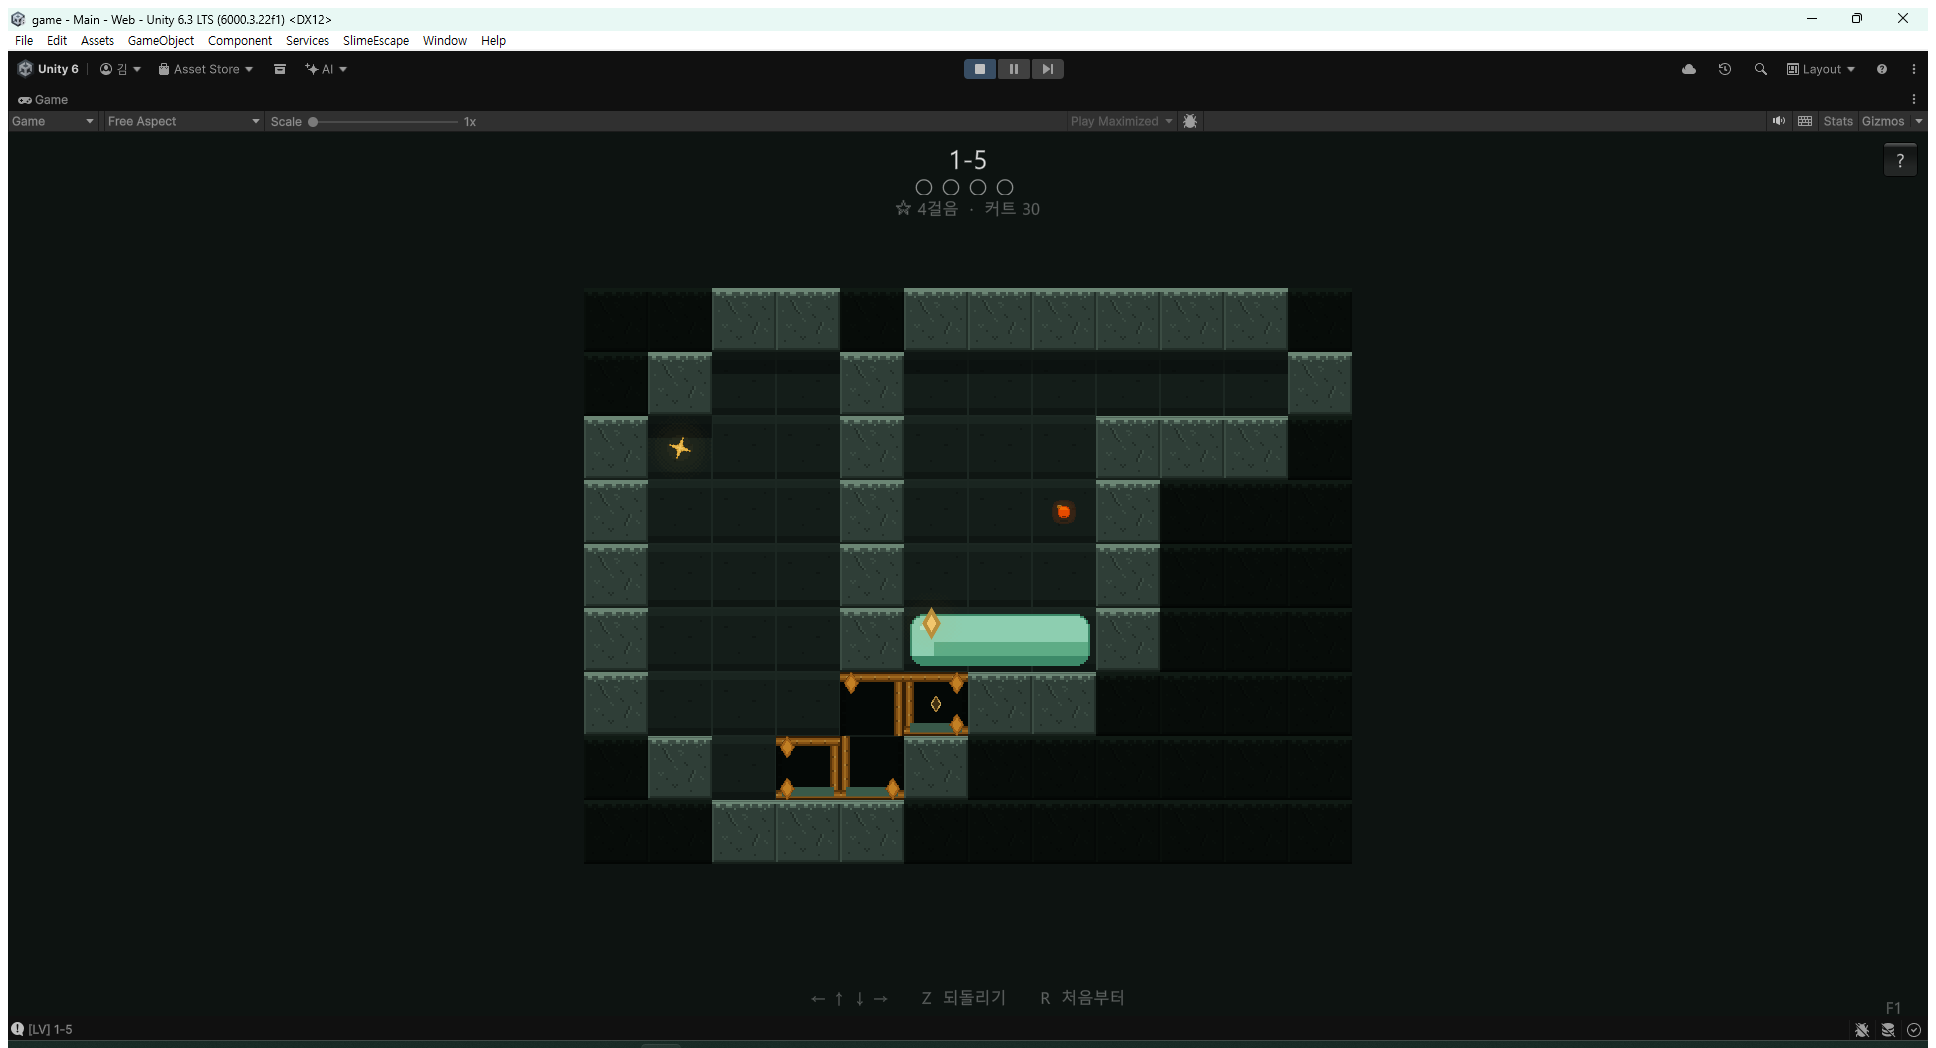
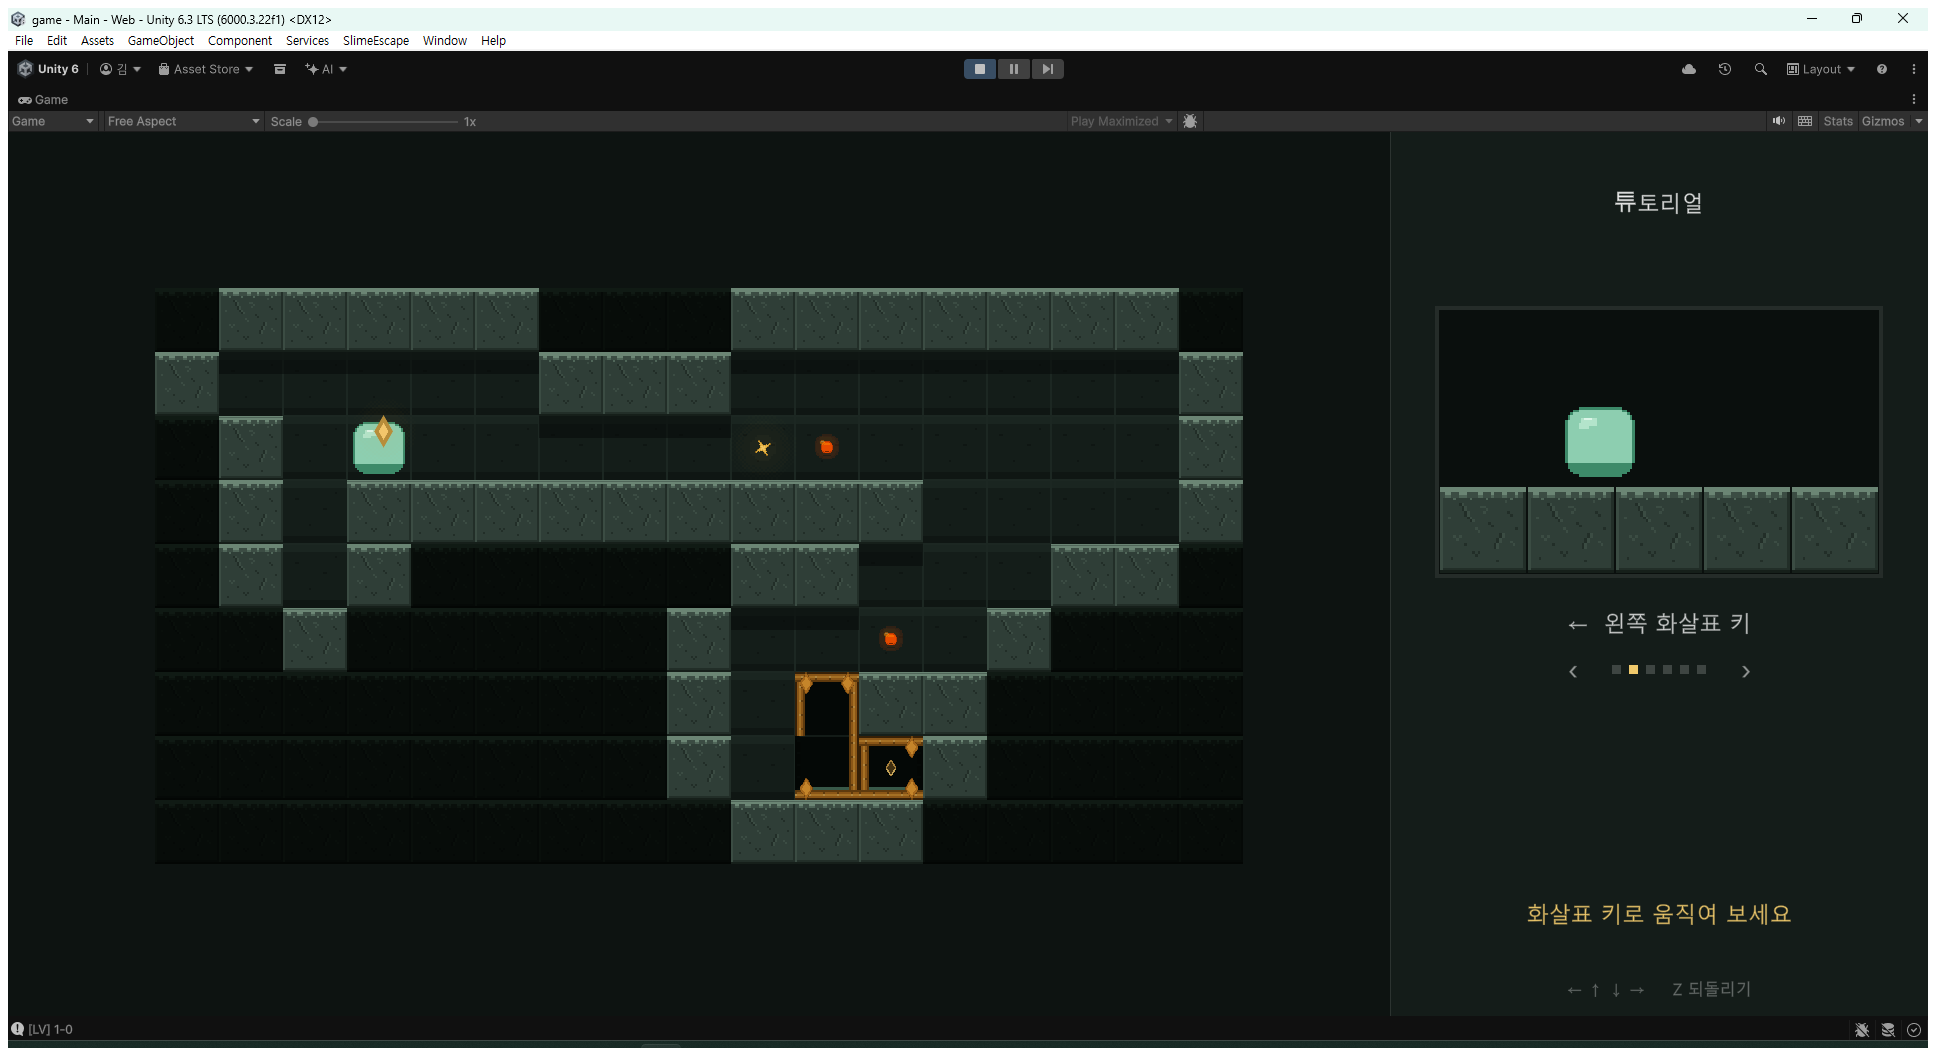
튜토리얼 안내판도 도트로
안내판만 코드가 네모를 칠하고 있었다 — 게임 화면은 도트인데 배우는 화면은
네모면 **같은 것을 두 가지로** 보여주는 꼴이다. 배우는 사람이 제일 헷갈리는 자리다.

Cell(rect, color, art) 로 넓혀서, 그림이 있으면 그림을 쓴다.
안내판 속 홈도 게임 화면과 같은 규칙(놋쇠 틀 + 어두운 속 + 열쇠 구멍)으로.

🔴 ArgumentNullException — 그림 이름 없이 부르는 자리가 생겨
   Art.Frames(null) 이 사전 열쇠에 null 을 넣고 죽었다. 안내판이 통째로 비었다.
   컴파일은 통과했다. 화면을 봐야 보이는 종류다.

diff --git a/game/Assets/Scripts/SnakeController.cs b/game/Assets/Scripts/SnakeController.cs
@@ -2277,7 +2277,17 @@ namespace SlimeEscape
         float _slideAt = -99f;    // 그 장이 뜬 시각
 
         /// 안내판 한 칸을 그린다 (작은 격자용)
-        void Cell(Rect r, Color c) { GUI.color = c; GUI.DrawTexture(r, Solid(Color.white)); GUI.color = Color.white; }
+        /// <summary>
+        /// 안내판의 한 칸. <paramref name="art"/> 를 주면 그림으로, 없으면 색으로.
+        /// 🔴 게임 화면은 도트인데 안내판만 네모를 칠하면,
+        ///    **같은 것을 두 가지로** 보여주는 꼴이 된다 — 배우는 사람이 제일 헷갈리는 자리다.
+        /// </summary>
+        void Cell(Rect r, Color c, string art = null)
+        {
+            var s = Art.Frame(art, 6f);
+            if (s != null) { GUI.DrawTexture(r, s.texture); return; }
+            GUI.color = c; GUI.DrawTexture(r, Solid(Color.white)); GUI.color = Color.white;
+        }
 
         /// <summary>
         /// 🔴 여섯 장을 돌려 보여준다 — → ← ↓ ↑ · 조각 · 홈.
@@ -2317,38 +2327,38 @@ namespace SlimeEscape
             Rect at(int cx, int cy) => new Rect(gx + cx * c + 1f, gy + cy * c + 1f, c - 2f, c - 2f);
 
             // 바닥 한 줄은 늘 돌
-            for (int k = 0; k < 5; k++) Cell(at(k, 2), Rock);
+            for (int k = 0; k < 5; k++) Cell(at(k, 2), Rock, "wall");
 
             float e = Mathf.Clamp01((u - 0.15f) / 0.55f);      // 움직이는 구간
             switch (slide)
             {
                 case 0: {                                       // →
                     float x = Mathf.Lerp(0.6f, 3.4f, e);
-                    Cell(new Rect(gx + x * c + 1f, gy + c + 1f, c - 2f, c - 2f), BodyCol);
+                    Cell(new Rect(gx + x * c + 1f, gy + c + 1f, c - 2f, c - 2f), BodyCol, "head");
                     break;
                 }
                 case 1: {                                       // ←
                     float x = Mathf.Lerp(3.4f, 0.6f, e);
-                    Cell(new Rect(gx + x * c + 1f, gy + c + 1f, c - 2f, c - 2f), BodyCol);
+                    Cell(new Rect(gx + x * c + 1f, gy + c + 1f, c - 2f, c - 2f), BodyCol, "head");
                     break;
                 }
                 case 2: {                                       // ↓ 떨어진다
-                    Cell(at(0, 1), Rock); Cell(at(1, 1), Rock);
+                    Cell(at(0, 1), Rock, "wall"); Cell(at(1, 1), Rock, "wall");
                     float y = Mathf.Lerp(0f, 1f, e * e);
-                    Cell(new Rect(gx + 2.6f * c + 1f, gy + y * c + 1f, c - 2f, c - 2f), BodyCol);
+                    Cell(new Rect(gx + 2.6f * c + 1f, gy + y * c + 1f, c - 2f, c - 2f), BodyCol, "head");
                     break;
                 }
                 case 3: {                                       // ↑ 몸이 길어야 오른다
-                    Cell(at(3, 1), Rock); Cell(at(4, 1), Rock);
+                    Cell(at(3, 1), Rock, "wall"); Cell(at(4, 1), Rock, "wall");
                     float x = Mathf.Lerp(0.6f, 2.4f, Mathf.Clamp01(e * 1.6f));
                     float up = Mathf.Clamp01((e - 0.62f) / 0.38f);
-                    Cell(new Rect(gx + (x + up) * c + 1f, gy + (1f - up) * c + 1f, c - 2f, c - 2f), BodyCol);
-                    Cell(new Rect(gx + x * c + 1f, gy + c + 1f, c - 2f, c - 2f), BodyCol);
+                    Cell(new Rect(gx + (x + up) * c + 1f, gy + (1f - up) * c + 1f, c - 2f, c - 2f), BodyCol, "head");
+                    Cell(new Rect(gx + x * c + 1f, gy + c + 1f, c - 2f, c - 2f), BodyCol, "head");
                     break;
                 }
                 case 4: {                                       // 조각을 먹으면 길어진다
                     bool ate = e > 0.55f;
-                    if (!ate) Cell(at(3, 1), FoodCol);
+                    if (!ate) Cell(at(3, 1), FoodCol, "food");
                     float x = Mathf.Lerp(0.6f, 3f, Mathf.Clamp01(e / 0.55f));
                     Cell(new Rect(gx + x * c + 1f, gy + c + 1f, c - 2f, c - 2f), BodyCol);
                     if (ate) Cell(new Rect(gx + (x - 1f) * c + 1f, gy + c + 1f, c - 2f, c - 2f), BodyCol);
@@ -2357,12 +2367,13 @@ namespace SlimeEscape
                 default: {                                      // 홈에 몸을 포갠다
                     for (int k = 0; k < 3; k++)
                     {
-                        Cell(at(2 + k, 1), HoleEdge);
+                        //  홈은 놋쇠 틀 + 어두운 속. 게임 화면과 같은 규칙이어야 한다
+                        Cell(at(2 + k, 1), FrameCol);
                         var q = at(2 + k, 1);
-                        Cell(new Rect(q.x + 2, q.y + 2, q.width - 4, q.height - 4), HoleCol);
+                        Cell(new Rect(q.x + 2, q.y + 2, q.width - 4, q.height - 4), HoleCol, "slot");
                     }
                     var core = at(4, 1);
-                    Cell(new Rect(core.x + c * 0.3f, core.y + c * 0.3f, c * 0.4f, c * 0.4f), CoreCol);
+                    Cell(core, CoreCol, "core");
 
                     float slid = Mathf.Clamp01(u / 0.45f);
                     float suck = Mathf.Clamp01((u - 0.62f) / 0.22f);

diff --git a/game/Assets/Scripts/Art.cs b/game/Assets/Scripts/Art.cs
@@ -61,8 +61,14 @@ namespace SlimeEscape
         /// 움직임은 작게 둔다 — 퍼즐에서 배경이 크게 흔들리면 판을 읽는 눈이 흩어진다.
         /// "살아 있다"만 알려주면 된다.
         /// </summary>
+        static readonly Sprite[] None = new Sprite[0];
+
         public static Sprite[] Frames(string name)
         {
+            //  🔴 이름이 없으면 빈손으로 돌려보낸다.
+            //     사전 열쇠에 null 을 넣으면 ArgumentNullException 으로 죽는다 —
+            //     안내판을 그림으로 바꾸면서 그림 이름 없이 부르는 자리가 생겼다 (09-02).
+            if (string.IsNullOrEmpty(name)) return None;
             Load();
             if (_anim == null) _anim = new Dictionary<string, Sprite[]>();
             if (_anim.TryGetValue(name, out var got)) return got;
